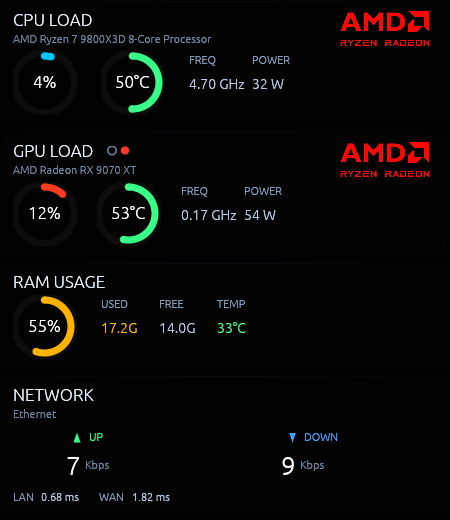
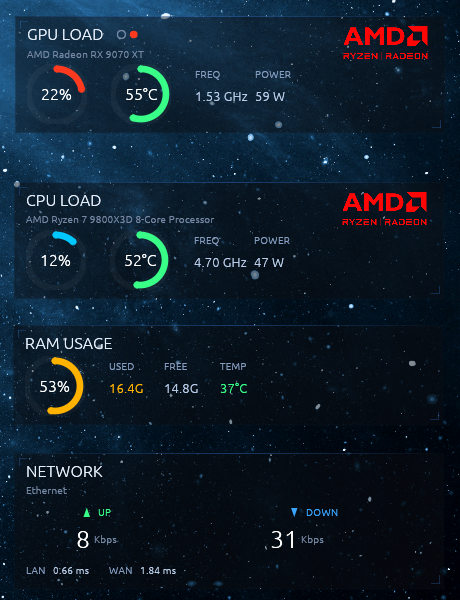
docs: the compact panels in the README and on the website
A picture of the four compact panels as floating cards, a Compact panels
item under Display & Placement, and a showcase on the website. The PR
screenshot is retaken after the GPU column fix.

Refs #596

diff --git a/website/index.html b/website/index.html
@@ -256,6 +256,20 @@
           <li>Toggle floating mode from Settings or the tray menu</li>
         </ul>
       </div>
+      <div class="floating-showcase">
+        <div class="screen-wrap screen-wrap--wide">
+          <img src="images/compact-panels.png" alt="The CPU, GPU, RAM and Network panels drawn compact as floating cards: load and temperature rings with clock and power for the CPU and GPU, a usage ring with used, free and temperature for RAM, and up/down speeds with LAN and WAN ping for the network" class="hero-img" loading="lazy">
+        </div>
+        <div>
+          <h3>Compact panels<span class="badge-soon">Coming in v1.52.0</span></h3>
+          <ul class="floating-features">
+            <li>CPU, GPU, RAM and Network can each be drawn compact: the key values only, no graphs or bars</li>
+            <li>CPU and GPU keep load and temperature, clock and power; RAM keeps used, free and temperature; Network keeps the speeds and ping</li>
+            <li>Choose Full or Compact per panel in the Control Center's Dashboard page — it follows the profile</li>
+            <li>Made for floating cards and small screens, where every pixel counts</li>
+          </ul>
+        </div>
+      </div>
     </div>
   </section>
 
@@ -399,6 +413,7 @@
             <p>Each profile has its own dashboard look, previewed live as you change it.</p>
             <ul class="floating-features">
               <li>Accent colour, opacity, and which panels show in what order</li>
+              <li>CPU, GPU, RAM and Network full or compact<span class="badge-soon">Coming in v1.52.0</span></li>
               <li>The game overlay and its metrics</li>
               <li>Alert levels — Gaming can run hotter before it warns</li>
             </ul>

diff --git a/README.md b/README.md
@@ -167,6 +167,16 @@ order, the overlay's metrics and the alert levels — belongs to each
 - **Window layer** — `Normal`, `Always on Top`, `Always Behind`, or **Desktop
   Wallpaper**.
 - **Floating mode** — render panels as individually draggable/lockable cards.
+- **Compact panels** — CPU, GPU, RAM and Network can each be drawn compact:
+  the key values only, no graphs or bars. The choice is per panel and per
+  Control Center profile (**Control Center → Dashboard**, Full / Compact
+  beside each panel), so they take less room on a small screen or as floating
+  cards.
+
+<p align="center">
+  <img src="assets/compact-panels.png" width="300" alt="The CPU, GPU, RAM and Network panels drawn compact as floating cards: load and temperature rings with clock and power for the CPU and GPU, a usage ring with used, free and temperature for RAM, and up/down speeds with LAN and WAN ping for the network">
+</p>
+
 - **Fill Screen** — fill the height of the monitor the window currently sits on
   (panel proportions are preserved).
 
